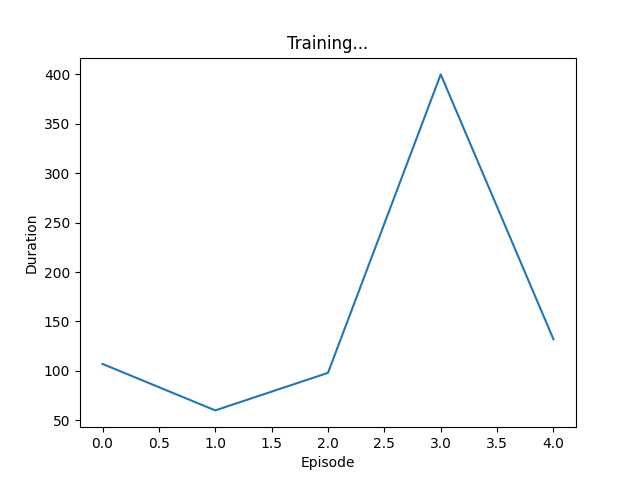
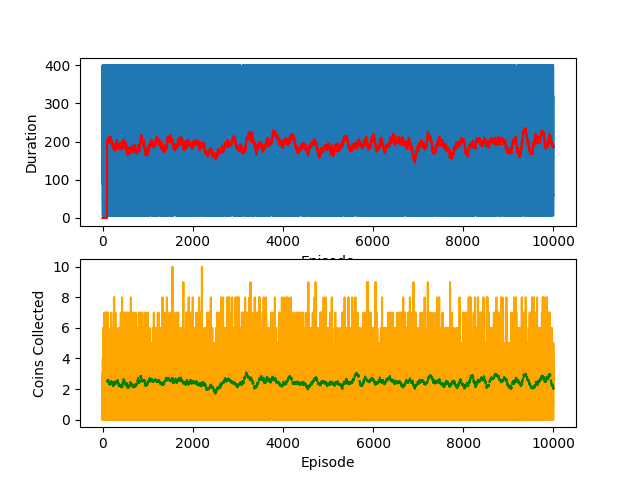
training code for ql-agent with inference learnign from rule based agent

diff --git a/agent_code/ql_agent/train.py b/agent_code/ql_agent/train.py
@@ -54,6 +54,8 @@ EPS_DECAY_FACTOR = 1000000
 TAU = 0.001
 LEARNING_RATE = 0.0001
 
+NUM_EPISODES = 10000
+
 ACTIONS = ['UP', 'RIGHT', 'DOWN', 'LEFT', 'WAIT', 'BOMB']
 
 # Events
@@ -73,10 +75,12 @@ def setup_training(self):
     # self.optimizer = SGD(self.model.parameters(), lr=self.learning_rate)
     self.loss_function = nn.MSELoss()
     self.losses = []
-
+    # Track visited tiles for giving rewards for visiting many tiles
+    self.tiles_visited = []
+    self.coins_collected = 0
     # Setup models
     input_size = 1445
-    hidden_size = 128
+    hidden_size = 600
     output_size = len(ACTIONS)
     self.policy_net = MLP(input_size, hidden_size, output_size)
     self.target_net = MLP(input_size, hidden_size, output_size)
@@ -86,17 +90,25 @@ def setup_training(self):
         # self.policy_net = torch.load('custom_mlp_policy_model.pth')
         # self.target_net = torch.load('custom_mlp_target_model.pth')
     self.steps_done = 0
-    self.eps_threshold = EPS_END + (EPS_START - EPS_END) * \
-        math.exp(-1. * self.steps_done / EPS_DECAY_FACTOR)
+    # self.eps_threshold = EPS_END + (EPS_START - EPS_END) * \
+    #     math.exp(-1. * self.steps_done / EPS_DECAY_FACTOR)
+   
     # self.eps_threshold = STATIC_EPS
     # Load episodes from file
     self.episode_durations = []
+    self.episodes_coins_collected = []
     if os.path.isfile("training_episodes.pkl"):
         with open('training_episodes.pkl', 'rb') as f:
             eps_dur = pickle.load(f)
             if len(eps_dur) > 0:
                 self.episode_durations = eps_dur
+    if os.path.isfile("training_coins_collected.pkl"):
+        with open('training_coins_collected.pkl', 'rb') as f:
+            coins = pickle.load(f)
+            if len(coins) > 0:
+                self.episodes_coins_collected = coins
     self.episodes_round = 0
+    self.eps_threshold = EPS_START * (1 - (len(self.episode_durations) / NUM_EPISODES))
     self.logger.info(f"Loaded {len(self.episode_durations)} training episodes from file")
     self.logger.info(f"Current epsilon threshold: {self.eps_threshold}")
     self.memory = ReplayMemory(TRANSITION_HISTORY_SIZE)
@@ -124,18 +136,19 @@ def game_events_occurred(self, old_game_state: dict, self_action: str, new_game_
     # new_game_state_feature = state_to_features(new_game_state)
     old_game_state_feature = torch.tensor(state_to_features(old_game_state), dtype=torch.float32).unsqueeze(0)
     new_game_state_feature = torch.tensor(state_to_features(new_game_state), dtype=torch.float32).unsqueeze(0)
-    rewards = reward_from_events(self, events, new_game_state_feature)
+    rewards = reward_from_events(self, events, new_game_state)
     # Put rewards into tensor
     reward = torch.tensor([rewards])
     action = torch.tensor([[action_string_to_index(self_action)]], dtype=torch.long)
     self.memory.push(old_game_state_feature, action, new_game_state_feature, reward)
     self.episodes_round += 1
-    self.eps_threshold = EPS_END + (EPS_START - EPS_END) * \
-        math.exp(-1. * self.steps_done / EPS_DECAY_FACTOR)
+    # self.eps_threshold = EPS_END + (EPS_START - EPS_END) * \
+    #     math.exp(-1. * self.steps_done / EPS_DECAY_FACTOR)
+    self.eps_threshold = EPS_START * (1 - (len(self.episode_durations) / NUM_EPISODES))
     self.steps_done += 1
     # print("Rewards: ", reward)
 
-    update_model(self)
+    # update_model(self)
 
     # # Idea: Add your own events to hand out rewards
     # if ...:
@@ -174,10 +187,13 @@ def end_of_round(self, last_game_state: dict, last_action: str, events: List[str
     # Update the model
     update_model(self)
     self.episode_durations.append(self.episodes_round)
+    self.episodes_coins_collected.append(self.coins_collected)
     self.episodes_round = 0
+    self.tiles_visited = []
+    self.coins_collected = 0
     # Only plot every 20 episodes
     # if len(self.episode_durations) % 100 == 0:
-    plot_durations(self)
+    plot_durations(self, last_game_state)
     # Save model to file
     # torch.save(self.policy_net, 'custom_mlp_policy_model.pth')
     torch.save(self.policy_net.state_dict(), 'custom_mlp_policy_model.pth')
@@ -189,11 +205,11 @@ def end_of_round(self, last_game_state: dict, last_action: str, events: List[str
     # Clean memory after each round for preventing memory leakage
     self.memory = ReplayMemory(TRANSITION_HISTORY_SIZE)
     # Update epsilon threshold for new round
-    self.eps_threshold = EPS_END + (EPS_START - EPS_END) * \
-        math.exp(-1. * self.steps_done / EPS_DECAY_FACTOR)
+    # self.eps_threshold = EPS_END + (EPS_START - EPS_END) * \
+    #     math.exp(-1. * self.steps_done / EPS_DECAY_FACTOR)
+    self.eps_threshold = EPS_START * (1 - (len(self.episode_durations) / NUM_EPISODES))
 
-
-def reward_from_events(self, events: List[str], new_game_state) -> int:
+def reward_from_events(self, events: List[str], new_game_state: dict) -> int:
     """
     *This is not a required function, but an idea to structure your code.*
 
@@ -205,27 +221,68 @@ def reward_from_events(self, events: List[str], new_game_state) -> int:
     #       Perform action -1
     #       Perform impossible action -2
     #       Die -300
+    # game_rewards = {
+    #     e.COIN_COLLECTED: 300,
+    #     e.CRATE_DESTROYED: 30,
+    #     e.INVALID_ACTION: -2,
+    #     e.KILLED_OPPONENT: 100,
+    #     e.GOT_KILLED: -300,
+    #     e.KILLED_SELF: -300,
+    #     e.WAITED: -5,
+    #     e.MOVED_DOWN: -1,
+    #     e.MOVED_LEFT: -1,
+    #     e.MOVED_RIGHT: -1,
+    #     e.MOVED_UP: -1,
+    #     e.BOMB_DROPPED: 1,
+    # }
+
+    # reward_sum = 0
+    # for event in events:
+    #     if event in game_rewards:
+    #         reward_sum += game_rewards[event]
+    # # TODO: Check if agent in danger zone
+    # self.logger.info(f"Awarded {reward_sum} for events {', '.join(events)}")
+    # return reward_sum
+    #       Kill a player 100
+    #       Break a wall 30
+    #       Perform action -1
+    #       Perform impossible action -2
+    #       Die -300
     game_rewards = {
-        e.COIN_COLLECTED: 300,
+        e.COIN_COLLECTED: 500,
         e.CRATE_DESTROYED: 30,
-        e.INVALID_ACTION: -2,
+        e.INVALID_ACTION: -80,
         e.KILLED_OPPONENT: 100,
         e.GOT_KILLED: -300,
         e.KILLED_SELF: -300,
-        e.WAITED: -5,
-        e.MOVED_DOWN: -1,
-        e.MOVED_LEFT: -1,
-        e.MOVED_RIGHT: -1,
-        e.MOVED_UP: -1,
-        e.BOMB_DROPPED: 1,
+        e.BOMB_DROPPED: 5,
+    }
+
+    made_action = {
+        e.MOVED_LEFT: 1,
+        e.MOVED_RIGHT: 1,
+        e.MOVED_UP: 1,
+        e.MOVED_DOWN: 1,
+        e.WAITED: -20,
     }
 
     reward_sum = 0
     for event in events:
+        if event == e.COIN_COLLECTED:
+            self.coins_collected += 1
         if event in game_rewards:
             reward_sum += game_rewards[event]
+        if event in made_action:
+            reward_sum += made_action[event]
     # TODO: Check if agent in danger zone
     self.logger.info(f"Awarded {reward_sum} for events {', '.join(events)}")
+    
+    # Add reward for visiting new tiles
+    if 'self' in new_game_state and len(new_game_state['self']) > 3:
+        if new_game_state['self'][3] not in self.tiles_visited:
+            self.tiles_visited.append(new_game_state['self'][3])
+            reward_sum += 10
+
     return reward_sum
 
 # def update_model(self, old_game_state: dict, self_action: str, new_game_state: dict, events: List[str]):
@@ -282,8 +339,8 @@ def update_model(self):
     # Compute Q(s_t, a) - the model computes Q(s_t), then we select the
     # columns of actions taken. These are the actions which would've been taken
     # for each batch state according to policy_net
-    print(self.policy_net(state_batch).shape)
-    print(action_batch.shape)
+    # print(self.policy_net(state_batch).shape)
+    # print(action_batch.shape)
     # print("state example", state_batch[0])
     # print("state example", state_batch[1])
     prediction = self.policy_net(state_batch)
@@ -338,22 +395,37 @@ def update_model(self):
     #     self.optimizer.step()
     # print(f"Avg loss: {sum(self.losses)/len(self.losses)}")
 
-def plot_durations(self, show_result=False):
-    plt.figure(1)
+def plot_durations(self, gamestate, show_result=False):
+    fig = plt.figure(1)
     durations_t = torch.tensor(self.episode_durations, dtype=torch.float)
+    coins_collected_t = torch.tensor(self.episodes_coins_collected, dtype=torch.float)
+
     if show_result:
-        plt.title('Result')
+        fig.suptitle('Result')
     else:
         plt.clf()
-        plt.title('Training...')
-    plt.xlabel('Episode')
-    plt.ylabel('Duration')
-    plt.plot(durations_t.numpy())
+        fig.suptitle('Training...')
+    plt.clf()
+    ax1 = fig.add_subplot(211)
+    ax1.set_xlabel('Episode')
+    ax1.set_ylabel('Duration')
+    ax1.plot(durations_t.numpy(), label='Duration')
     # Take 100 episode averages and plot them too
     if len(durations_t) >= 100:
         means = durations_t.unfold(0, 100, 1).mean(1).view(-1)
         means = torch.cat((torch.zeros(99), means))
-        plt.plot(means.numpy())
+        ax1.plot(means.numpy(), color='red', label='Duration (Avg)')
+
+    # Create a secondary y-axis for coins collected
+    ax2 = fig.add_subplot(212)
+    ax2.set_xlabel('Episode')
+    ax2.set_ylabel('Coins Collected')
+    ax2.plot(coins_collected_t.numpy(), label='Coins Collected', color='orange')
+
+    # Calculate and plot the moving average of coins collected
+    moving_average_window = 100  # Adjust this window size as needed
+    moving_avg = np.convolve(coins_collected_t.numpy(), np.ones(moving_average_window)/moving_average_window, mode='valid')
+    ax2.plot(np.arange(len(moving_avg)) + moving_average_window - 1, moving_avg, linestyle='--', color='green', label='Coins Collected (Avg)')
     
     plt.pause(0.001)  # pause a bit so that plots are updated
     # Save plot to file

diff --git a/agent_code/ql_agent/callbacks.py b/agent_code/ql_agent/callbacks.py
@@ -5,6 +5,7 @@ import numpy as np
 import torch
 from gymnasium.spaces import Discrete
 from .utils import action_index_to_string, action_string_to_index
+from ..rule_based_agent import callbacks as rule_based_agent
 
 ACTIONS = ['UP', 'RIGHT', 'DOWN', 'LEFT', 'WAIT', 'BOMB']
 
@@ -34,9 +35,13 @@ def setup(self):
     #     self.logger.info("Loading model from saved state.")
     #     with open("my-saved-model.pt", "rb") as file:
     #         self.model = pickle.load(file)
-    input_size = 23
-    hidden_size = 60
+    input_size = 1445
+    hidden_size = 600
     output_size = len(ACTIONS)
+
+    # For rule based inference learnign:
+    self.bomb_buffer = 0
+    self.current_round = 0
 
     if not os.path.isfile("custom_mlp_policy_model.pth") and not self.train:
         # Size of feature representation below
@@ -72,11 +77,25 @@ def act(self, game_state: dict) -> str:
     #     'coins': [coin.get_state() for coin in self.coins if coin.collectable],
     #     'user_input': self.user_input,
     # }
-
+    rule_based_action = rule_based_agent.act(self, game_state)
+    if rule_based_action is not None: #and random.random() < self.eps_threshold:
+        return rule_based_action
+    else:
+        return np.random.choice(ACTIONS, p=[.2, .2, .2, .2, .1, .1]) 
     if self.train and random.random() < self.eps_threshold:
         self.logger.debug("Random action.")
         # 80%: walk in any direction. 10% wait. 10% bomb.
-        return np.random.choice(ACTIONS, p=[.2, .2, .2, .2, .199, .001])
+        # choice = np.random.choice([1,2])
+        # if choice == 1:
+        rule_based_action = rule_based_agent.act(self, game_state)
+        if rule_based_action is not None: #and random.random() < self.eps_threshold:
+            return rule_based_action
+        else:
+            return np.random.choice(ACTIONS, p=[.2, .2, .2, .2, .1, .1]) 
+    # if self.train and random.random() < self.eps_threshold:
+    #     self.logger.debug("Random action.")
+    #     # 80%: walk in any direction. 10% wait. 10% bomb.
+    #     return np.random.choice(ACTIONS, p=[.2, .2, .2, .2, .1, .1])
     else:
         with torch.no_grad():
             state = torch.tensor(state_to_features(game_state), dtype=torch.float32).unsqueeze(0)  # Add batch dimension

diff --git a/agent_code/ql_agent_fet/train.py b/agent_code/ql_agent_fet/train.py
@@ -8,7 +8,7 @@ import os
 import events as e
 import numpy as np
 from torch import nn
-from torch.optim import AdamW, SGD
+from torch.optim import AdamW
 from .MLP import MLP
 import random
 from .utils import action_index_to_string, action_string_to_index
@@ -228,12 +228,12 @@ def reward_from_events(self, events: List[str], new_game_state: dict) -> int:
     #       Die -300
     game_rewards = {
         e.COIN_COLLECTED: 500,
-        e.CRATE_DESTROYED: 300,
+        e.CRATE_DESTROYED: 50,
         e.INVALID_ACTION: -50,
-        e.KILLED_OPPONENT: 100,
+        e.KILLED_OPPONENT: 200,
         e.GOT_KILLED: -300,
         e.KILLED_SELF: -300,
-        e.BOMB_DROPPED: 1,
+        e.BOMB_DROPPED: 5,
     }
 
     made_action = {
@@ -241,7 +241,7 @@ def reward_from_events(self, events: List[str], new_game_state: dict) -> int:
         e.MOVED_RIGHT: 1,
         e.MOVED_UP: 1,
         e.MOVED_DOWN: 1,
-        e.WAITED: -1,
+        e.WAITED: -20,
     }
 
     reward_sum = 0
@@ -311,7 +311,7 @@ def update_model(self):
     loss = criterion(state_action_values, expected_state_action_values.unsqueeze(1))
     self.losses.append(loss)
 
-    print(f"Episode {len(self.episode_durations)} Loss: {loss.detach().numpy().item()}")
+    # print(f"Episode {len(self.episode_durations)} Loss: {loss.detach().numpy().item()}")
     # Optimize the model
     self.optimizer.zero_grad()
     loss.backward()

diff --git a/agent_code/ql_agent_fet/callbacks.py b/agent_code/ql_agent_fet/callbacks.py
@@ -84,7 +84,7 @@ def act(self, game_state: dict) -> str:
         # choice = np.random.choice([1,2])
         # if choice == 1:
         rule_based_action = rule_based_agent.act(self, game_state)
-        if rule_based_action is not None:
+        if rule_based_action is not None: #and random.random() < self.eps_threshold:
             return rule_based_action
         else:
             return np.random.choice(ACTIONS, p=[.2, .2, .2, .2, .1, .1]) 
@@ -95,7 +95,6 @@ def act(self, game_state: dict) -> str:
         with torch.no_grad():
             state = torch.tensor(state_to_features_special(self, game_state), dtype=torch.float32).unsqueeze(0)  # Add batch dimension
             prediction = self.policy_net(state).argmax(dim=2).item()
-            print("prediction: ", prediction)
             chosen_action = action_index_to_string(prediction)
             
             # action_index = self.policy_net(state).argmax().item()
